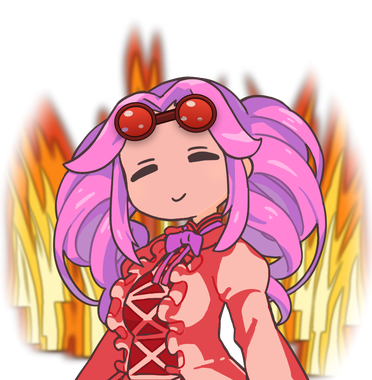
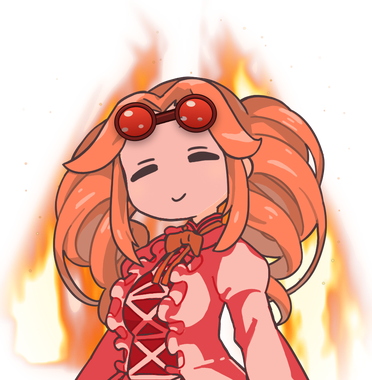
metan

diff --git a/maintenance/make-metan.py b/maintenance/make-metan.py
@@ -1,17 +1,7 @@
-#!/usr/bin/env python3
-"""
-四国めたんの口パク用の画像（6枚）を、坂本アヒル氏の立ち絵 PSD から作る。
-  python3 maintenance/make-metan.py <PSDのパス> [出力フォルダ=short/metan]
-白ロリ服を赤に塗り替え、おでこに赤いゴーグル（レンズは左右の目の上。バンドは描かない）、後ろに炎の装飾を足し、
-口（閉じ・半開き・開き）× 目（開き・閉じ）で保存する。
-必要: pip install psd-tools pillow numpy matplotlib
-"""
-import sys, os
 from psd_tools import PSDImage
 from PIL import Image, ImageFilter, ImageDraw
 import numpy as np, matplotlib.colors as mc, random, sys
-PSD=sys.argv[1] if len(sys.argv)>1 else "metan.psd"; OUT=sys.argv[2] if len(sys.argv)>2 else "short/metan"; os.makedirs(OUT,exist_ok=True)
-psd=PSDImage.open(PSD); CW,CH=psd.size
+psd=PSDImage.open("metan.psd"); CW,CH=psd.size
 def find(path):
     g=psd
     for name in path: g=[l for l in g if l.name==name][0]
@@ -32,6 +22,19 @@ def redden(im):
     col=np.where((t<0.6)[...,None], dark+(mid-dark)*(t/0.6)[...,None], mid+(light-mid)*((t-0.6)/0.4)[...,None])
     out=a.copy(); out[...,:3]=np.where(mask[...,None],col,a[...,:3])
     return Image.fromarray((out*255).astype(np.uint8))
+
+def hair_orange(im):
+    # 髪（桃〜紫の色相）をオレンジに。明るさはそのまま、色相だけ回して少し鮮やかに
+    a=np.array(im.convert("RGBA")).astype(float)/255
+    hsv=mc.rgb_to_hsv(a[...,:3]); hue=hsv[...,0]*360; sat=hsv[...,1]; val=hsv[...,2]
+    mask=(hue>250)&(hue<340)&(sat>0.15)&(a[...,3]>0.1)
+    hsv2=hsv.copy()
+    hsv2[...,0]=np.where(mask, (14/360.0), hsv[...,0])          # 赤寄りのオレンジ
+    hsv2[...,1]=np.where(mask, np.clip(sat*1.15+0.08,0,1), sat)
+    rgb=mc.hsv_to_rgb(hsv2)
+    out=a.copy(); out[...,:3]=np.where(mask[...,None], rgb, a[...,:3])
+    return Image.fromarray((out*255).astype(np.uint8))
+
 def tongue(d, cx, base_y, h, w, col, lean=0.0, k=0):
     # 炎の舌：下が丸く、上が細く揺れる形。左右にゆらぎを付ける
     pts=[]
@@ -47,27 +50,64 @@ def tongue(d, cx, base_y, h, w, col, lean=0.0, k=0):
         x=cx+lean*h*t*t+0.12*w*np.sin(t*7+k)
         pts.append((x+ww,y))
     d.polygon(pts,fill=col)
+def _noise(W,H,seed,scales=((8,1.0),(16,0.6),(32,0.35),(64,0.2)),stretch=3.0):
+    # 乱流っぽいノイズ：粗い乱数を拡大してぼかしたものを数段重ねる。縦に引き伸ばして炎の流れにする
+    rng=np.random.default_rng(seed); acc=np.zeros((H,W)); tot=0
+    for cells,w in scales:
+        g=rng.random((max(2,int(cells/stretch)),cells))
+        im=Image.fromarray((g*255).astype(np.uint8)).resize((W,H),Image.BICUBIC)
+        acc+=np.array(im).astype(float)/255*w; tot+=w
+    return acc/tot
 def flames(size, seed=1):
     random.seed(seed); W,H=size
-    fl=Image.new("RGBA",size,(0,0,0,0))
-    # 舌の配置：左右の肩の外側と、頭の後ろ。外側（赤橙）→内側（黄）の順に重ねる
+    # 1) 舌の形（なめらかなマスク）：左右の肩の外側と頭の後ろ
+    shape=Image.new("L",size,0); d=ImageDraw.Draw(shape)
     spots=[]
-    for i in range(14):
-        side=random.choice([-1,1]); cx=W*0.5+side*random.uniform(W*0.22,W*0.46); base=random.uniform(H*0.75,H*1.02)
-        spots.append((cx,base,random.uniform(H*0.45,H*0.85),random.uniform(W*0.05,W*0.11),side*random.uniform(0.05,0.25),i))
-    for i in range(6):
-        cx=W*0.5+random.uniform(-W*0.25,W*0.25); base=random.uniform(H*0.5,H*0.7)
-        spots.append((cx,base,random.uniform(H*0.35,H*0.6),random.uniform(W*0.05,W*0.1),random.uniform(-0.2,0.2),20+i))
-    for col,shrink,blur in [((225,55,10,235),1.0,10),((255,140,20,240),0.72,6),((255,215,70,245),0.45,4),((255,250,200,230),0.22,3)]:
-        layer=Image.new("RGBA",size,(0,0,0,0)); d=ImageDraw.Draw(layer)
-        for (cx,base,h,w,lean,k) in spots: tongue(d,cx,base,h*shrink**0.6,w*shrink,col,lean,k)
-        layer=layer.filter(ImageFilter.GaussianBlur(blur))
-        fl=Image.alpha_composite(fl,layer)
-    # 外周はやわらかく透明に（四角い枠に見えないように）
-    a=np.array(fl); yy,xx=np.mgrid[0:H,0:W]; dx=(xx-W*0.5)/(W*0.52); dy=(yy-H*0.62)/(H*0.62); r=np.sqrt(dx*dx+dy*dy)
-    edge=np.clip((1.0-r)/0.2,0,1); edge=edge*edge*(3-2*edge)
-    a[...,3]=(a[...,3]*edge).astype(np.uint8); return Image.fromarray(a)
-
+    for i in range(16):
+        side=random.choice([-1,1]); cx=W*0.5+side*random.uniform(W*0.2,W*0.46); base=random.uniform(H*0.78,H*1.05)
+        spots.append((cx,base,random.uniform(H*0.6,H*1.0),random.uniform(W*0.06,W*0.12),-side*random.uniform(0.25,0.55),i))
+    for i in range(7):
+        cx=W*0.5+random.uniform(-W*0.28,W*0.28); base=random.uniform(H*0.5,H*0.72)
+        spots.append((cx,base,random.uniform(H*0.4,H*0.7),random.uniform(W*0.05,W*0.1),(-0.25 if cx>W*0.5 else 0.25)*random.uniform(0.5,1.0),20+i))
+    for (cx,base,h,w,lean,k) in spots: tongue(d,cx,base,h,w,255,lean,k)
+    shape=np.array(shape.filter(ImageFilter.GaussianBlur(9))).astype(float)/255
+    # 2) 乱流で縁をちぎる・内部にむらを作る。下ほど濃く、上ほど細く消える
+    n=_noise(W,H,seed)
+    yy,xx=np.mgrid[0:H,0:W]; up=np.clip((yy/H-0.1)/0.9,0,1)          # 0=上 … 1=下
+    inten=shape*np.clip((n-0.3)*2.4,0,1)*(0.4+0.6*up)
+    half=W*(0.14+0.44*up)                                   # 上に行くほど許す幅を狭める（頭の上へ収束）
+    taper=np.clip((half-np.abs(xx-W*0.5))/(W*0.12)+0.5,0,1); taper=taper*taper*(3-2*taper)
+    inten=np.clip(inten*1.6*taper,0,1)
+    # 3) 色：暗い赤 → 橙 → 黄 → 白（強さで決める）。中心ほど明るい
+    core=shape*np.clip((n-0.45)*2.6,0,1)*(0.5+0.5*up)
+    t=np.clip(inten*0.85+core*0.8,0,1)
+    stops=[(0.00,(200,40,8)),(0.3,(240,85,12)),(0.55,(255,140,20)),(0.8,(255,215,80)),(1.0,(255,252,225))]
+    rgb=np.zeros((H,W,3))
+    for (t0,c0),(t1,c1) in zip(stops[:-1],stops[1:]):
+        m=(t>=t0)&(t<=t1); f=((t-t0)/(t1-t0))[...,None]
+        rgb=np.where(m[...,None], np.array(c0)+(np.array(c1)-np.array(c0))*f, rgb)
+    alpha=np.clip(inten*1.9,0,1)
+    # 4) 外側の光（ぼかした加算）
+    glow=Image.fromarray((alpha*255).astype(np.uint8)).filter(ImageFilter.GaussianBlur(26))
+    ga=np.array(glow).astype(float)/255*0.55
+    out=np.zeros((H,W,4))
+    out[...,:3]=rgb; out[...,3]=np.clip(alpha+ga*(1-alpha),0,1)*255
+    out[...,:3]=np.where((alpha<0.05)[...,None], np.array([255,90,10]), out[...,:3])   # 光の部分は橙
+    # 4b) 火の粉：小さな明るい点を上のほうにまく
+    sp=Image.new("RGBA",size,(0,0,0,0)); sd=ImageDraw.Draw(sp); rs=random.Random(seed+99)
+    for i in range(70):
+        x=rs.uniform(W*0.05,W*0.95); y=rs.uniform(H*0.05,H*0.75); rr=rs.uniform(1.2,3.2)
+        c=rs.choice([(255,230,120),(255,170,40),(255,120,20)])
+        sd.ellipse((x-rr,y-rr,x+rr,y+rr),fill=c+(rs.randint(140,230),))
+    sp=sp.filter(ImageFilter.GaussianBlur(0.8)); spa=np.array(sp).astype(float)
+    a2=spa[...,3:4]/255
+    out[...,:3]=out[...,:3]*(1-a2)+spa[...,:3]*a2
+    out[...,3]=np.clip(out[...,3]+a2[...,0]*255*(1-out[...,3]/255),0,255)
+    # 5) 端は透明に
+    dx=(xx-W*0.5)/(W*0.52); dy=(yy-H*0.62)/(H*0.62); r=np.sqrt(dx*dx+dy*dy)
+    edge=np.clip((1.12-r)/0.5,0,1); edge=edge*edge*(3-2*edge)
+    out[...,3]*=edge
+    return Image.fromarray(out.astype(np.uint8))
 def lens(rx, ry, tilt):
     # 1枚のレンズ（縁つき・上が明るいグラデーション・ハイライト）。少し傾けて返す
     S=4; w,h=(rx+16)*2*S,(ry+16)*2*S
@@ -117,13 +157,14 @@ def goggles(size):
 
 def build(eye, mouth):
     canvas=Image.new("RGBA",(CW,CH),(0,0,0,0))
-    def put(path, red=False):
+    def put(path, red=False, hair=False):
         im,bb=layer_img(path)
         if im is None: return
         if red: im=redden(im)
+        if hair: im=hair_orange(im)
         canvas.alpha_composite(im,(bb[0],bb[1]))
-    put(["ツインドリル右"]); put(["ツインドリル左"])
-    put(["*白ロリ服","!体"],red=True)
+    put(["ツインドリル右"],hair=True); put(["ツインドリル左"],hair=True)
+    put(["*白ロリ服","!体"],red=True,hair=True)
     put(["*白ロリ服","!右腕","*普通"],red=True); put(["*白ロリ服","!左腕","*普通"],red=True)
     put(["!顔色","*普通2"])
     put(["!口",{"closed":"*ほほえみ","half":"*ゆ","open":"*わあー"}[mouth]])
@@ -134,7 +175,7 @@ def build(eye, mouth):
     put(["!眉","*ごきげん"])
     # 髪留めはゴーグルと重なるので外す
     # バンドは描かない（髪の外に出て見えると不自然なため）。レンズとブリッジだけ
-    put(["!前髪もみあげ"])
+    put(["!前髪もみあげ"],hair=True)
     canvas.alpha_composite(goggles((CW,CH)))
     return canvas
 # bust-up crop & flames
@@ -146,5 +187,5 @@ for eye in ["open","closed"]:
         out.alpha_composite(flames(c.size, seed=7))
         out.alpha_composite(c)
         out=out.resize((372,380),Image.LANCZOS)
-        out.save(os.path.join(OUT,f"{eye}_{mouth}.png"))
+        out.save(f"{eye}_{mouth}.png")
 print("ok")
